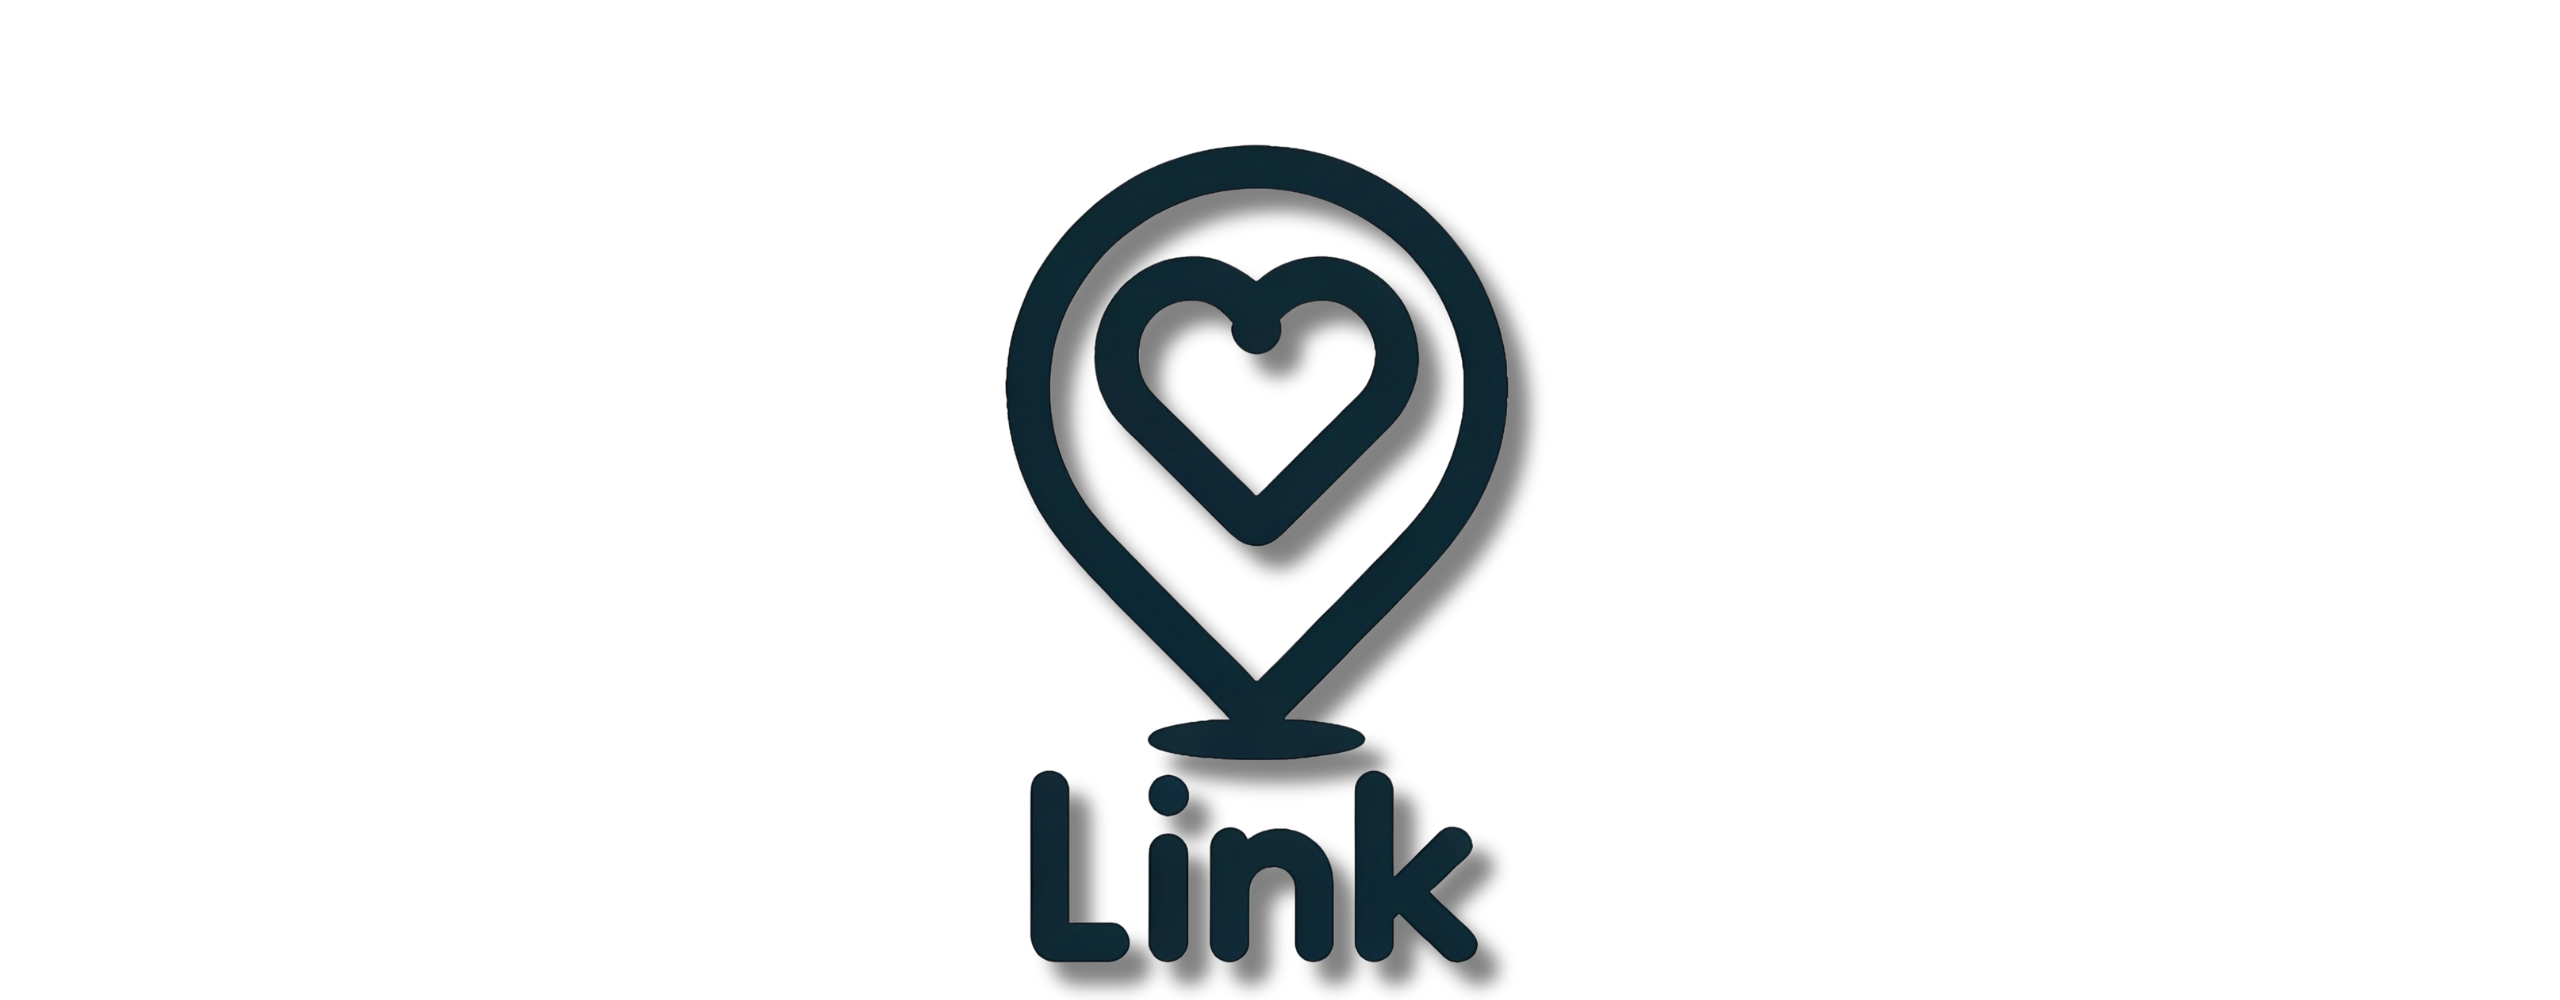
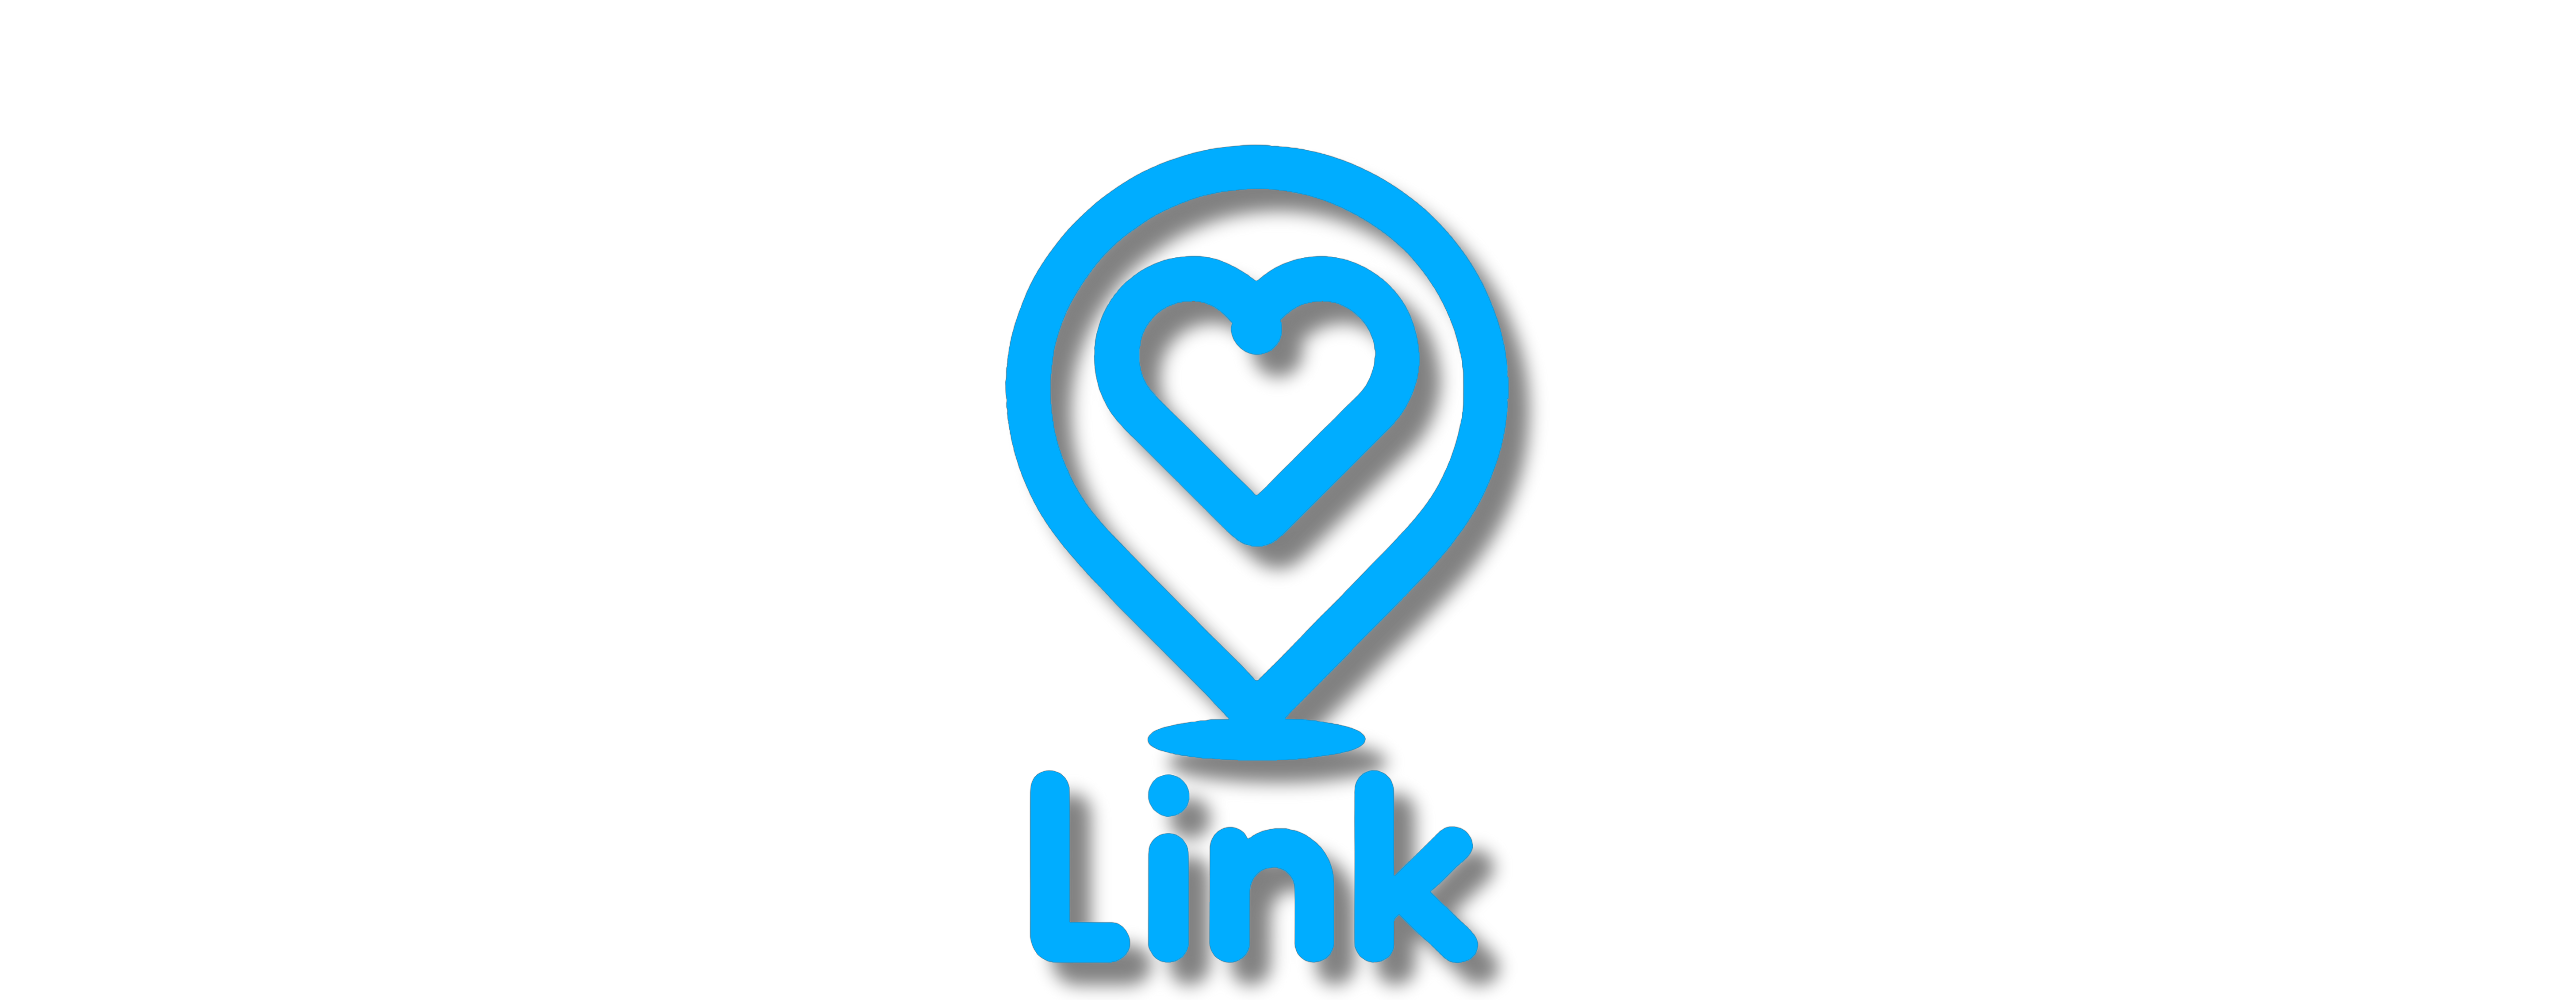
g

Changed region(s): [[0.375, 0.124, 0.5938, 0.961]]

diff --git a/src/Components/AISolutionOverview.js b/src/Components/AISolutionOverview.js
@@ -11,7 +11,7 @@ import {
   ListItemText,
 } from "@mui/material";
 import { styled } from "@mui/material/styles";
-import Image from "../Assets/545.png"; // Update with a relevant image for "Link"
+import Image from "../Assets/545.png";
 import LocationOnIcon from "@mui/icons-material/LocationOn";
 import EventIcon from "@mui/icons-material/Event";
 import PeopleIcon from "@mui/icons-material/People";
@@ -20,7 +20,7 @@ import SecurityIcon from "@mui/icons-material/Security";
 
 const StyledPaper = styled(Paper)(({ theme }) => ({
   padding: theme.spacing(5),
-  background: "linear-gradient(to right, #0f2027, #203a43, #2c5364)",
+  background: "linear-gradient(to right, #0072ff, #00c6ff)", // Blue gradient for the card background
   border: "1px solid rgba(255, 255, 255, 0.2)",
   borderRadius: "15px",
   color: "#fff",
@@ -28,7 +28,7 @@ const StyledPaper = styled(Paper)(({ theme }) => ({
 }));
 
 const GradientText = styled(Typography)(({ theme }) => ({
-  background: "linear-gradient(to right, #0f2027, #203a43, #2c5364)",
+  background: "linear-gradient(to right, #0072ff, #00c6ff)",
   color: "transparent",
   "-webkit-background-clip": "text",
   "background-clip": "text",
@@ -43,7 +43,7 @@ const StyledIcon = styled(ListItemIcon)(({ theme }) => ({
 const LinkAppOverview = () => {
   useEffect(() => {
     document.body.style.background =
-      "linear-gradient(to right, #0072ff, #00c6ff)";
+      "linear-gradient(to right, #f5f5f5, #e0e0e0)";
 
     return () => {
       document.body.style.background = "";
